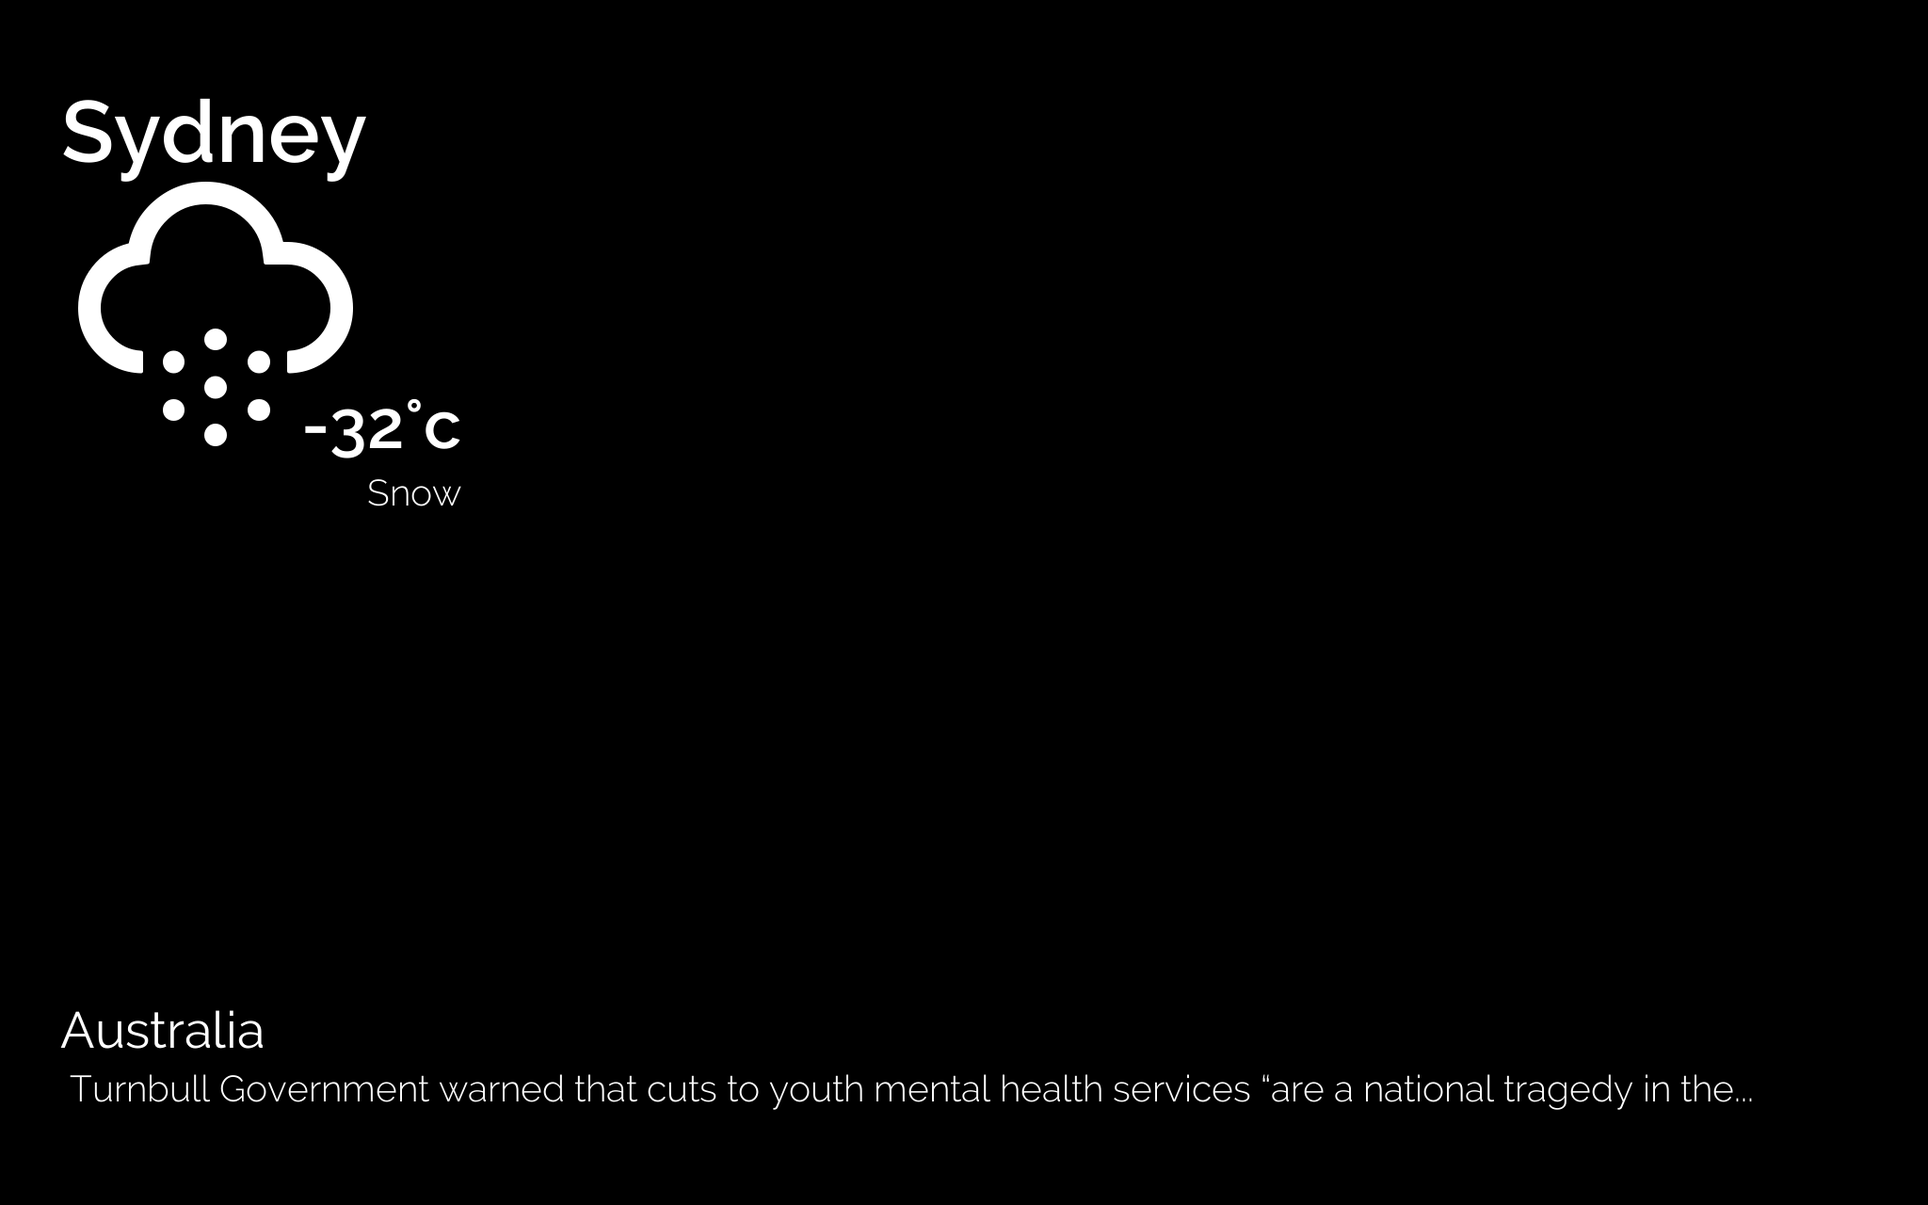
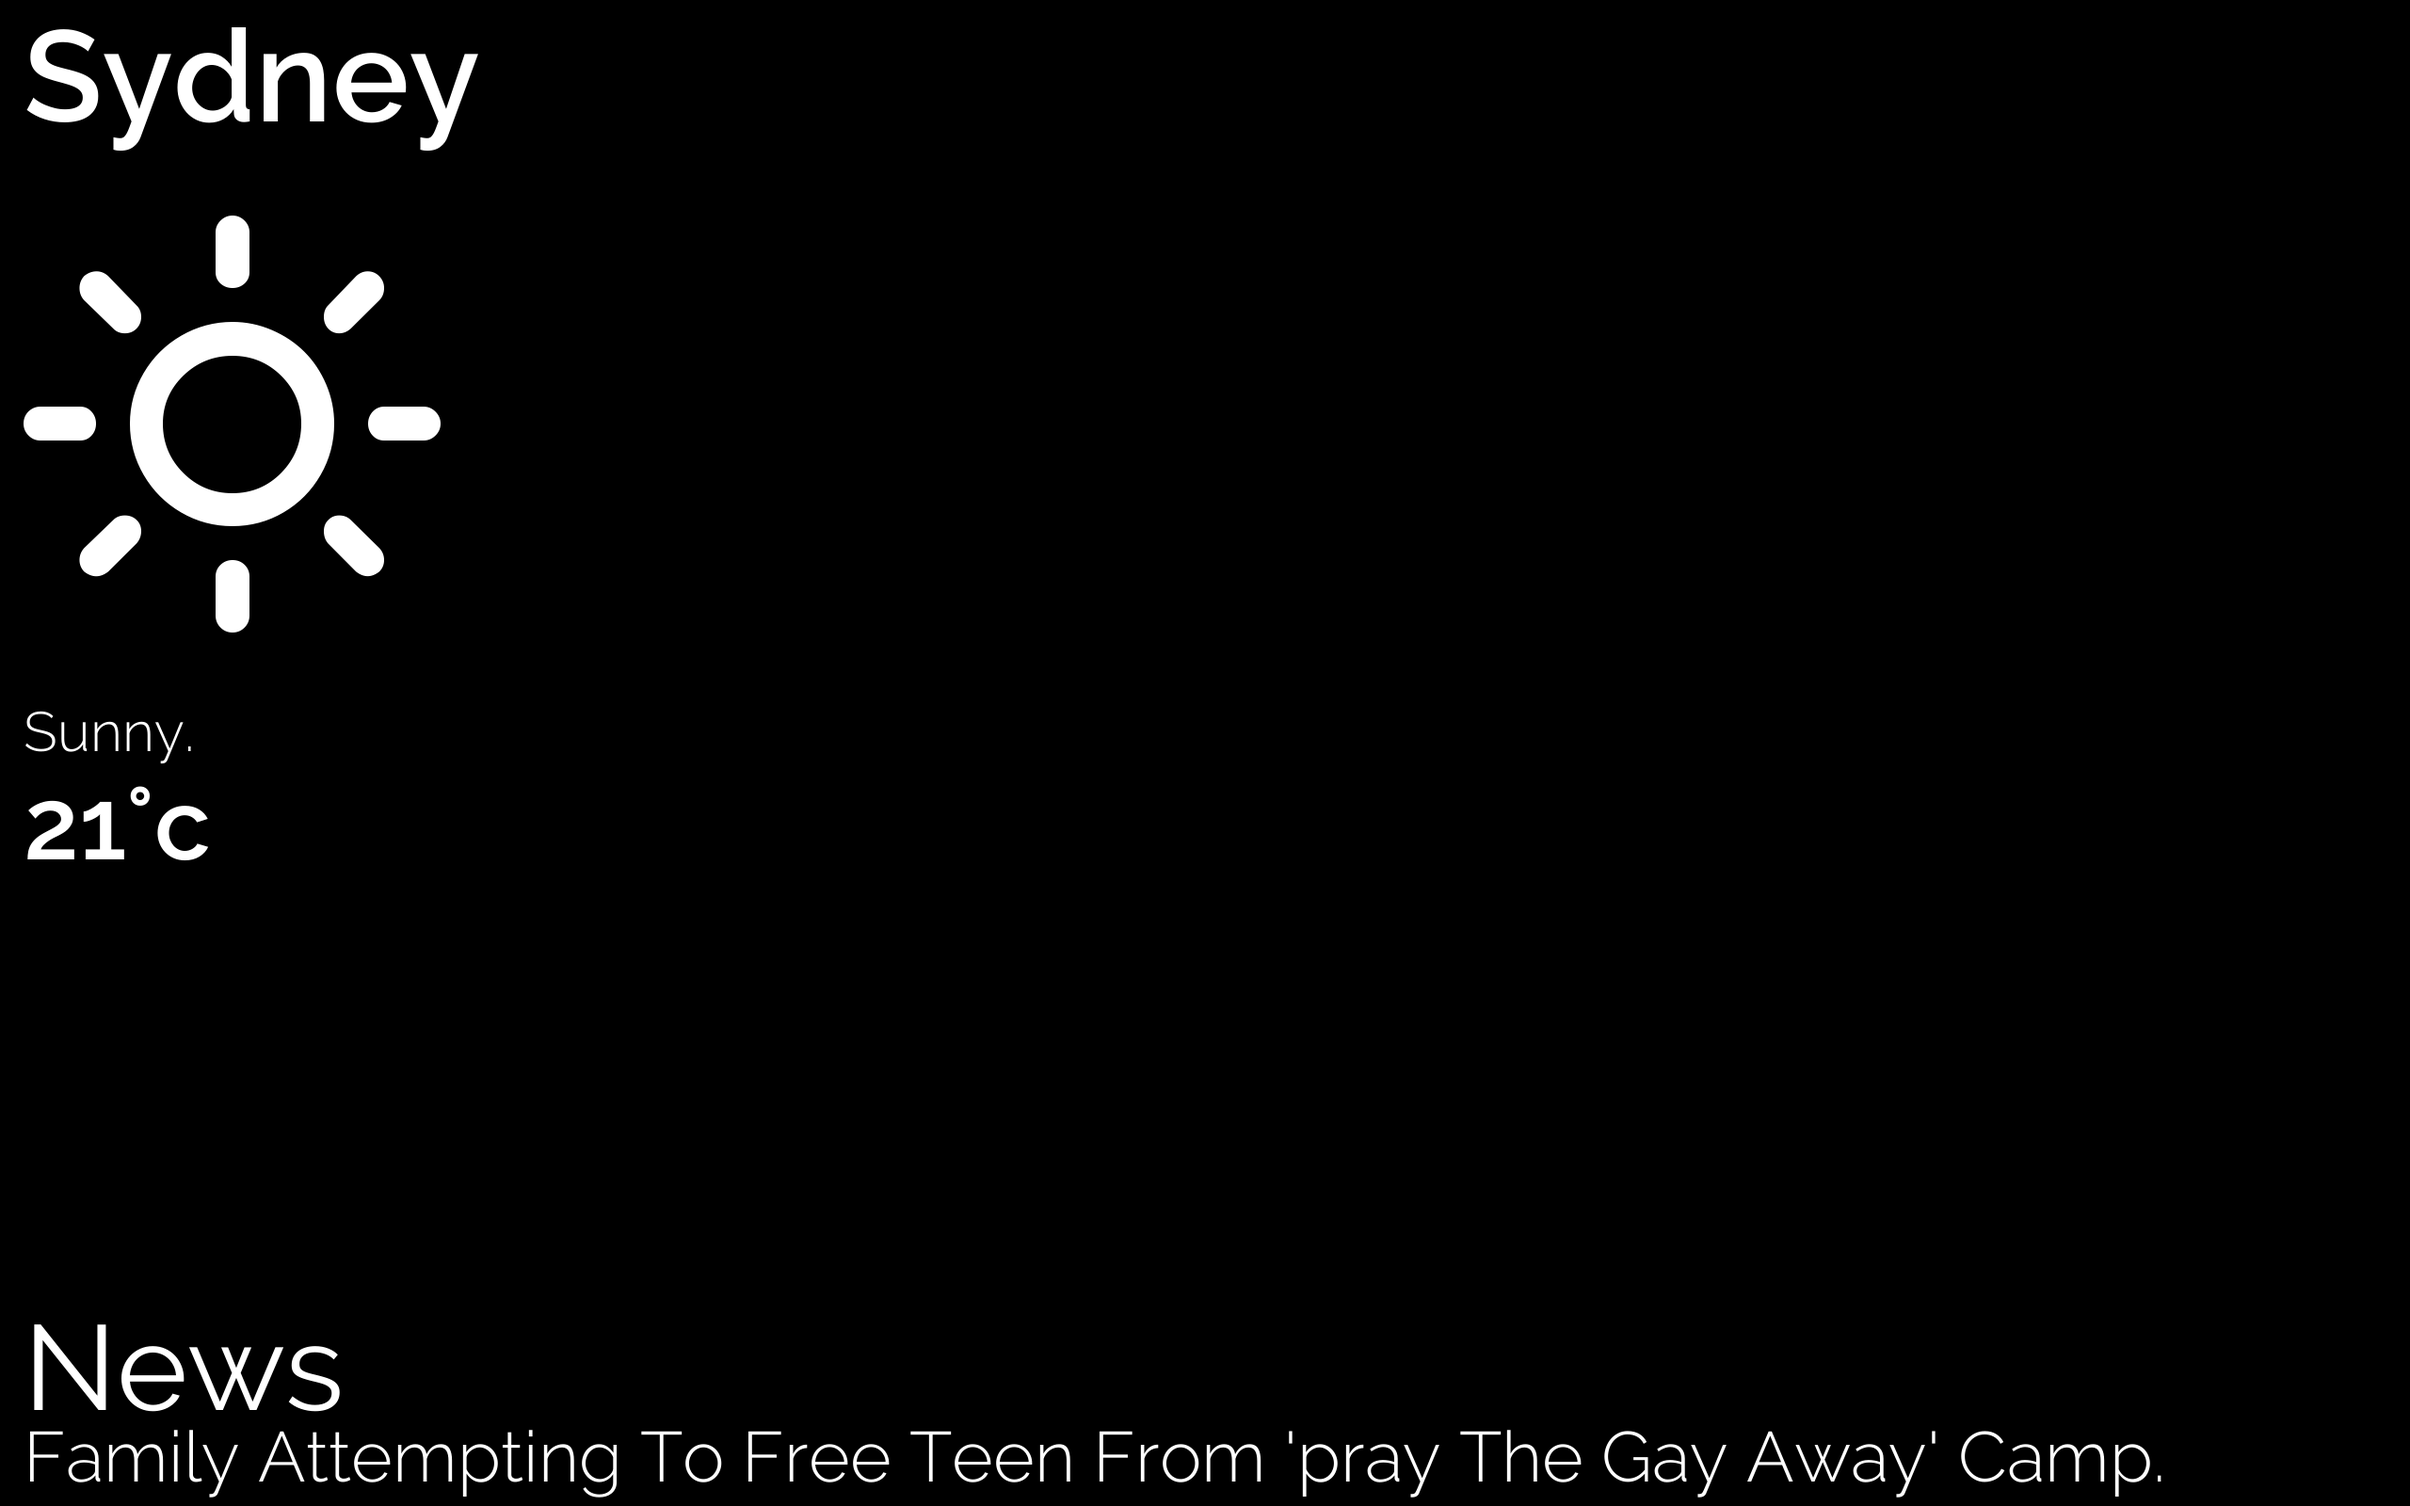
Added inverted mode, improved layout

diff --git a/main.py b/main.py
@@ -141,21 +141,27 @@ def get_weather_display():
     # Sets text for weather info, (text, antialiasing, colour, [background]):
     # city_text, temp_text, condition_text, weather_icon then positions
     weather_text = (
-        FONT[5].render(weather_info[3][0], 1, COLOUR[2]),
         FONT[1].render(weather_info[0], 1, COLOUR[2]),
+        FONT[5].render(weather_info[3][0], 1, COLOUR[2]),
+        FONT[3].render(str(weather_info[2]), 1, COLOUR[2]),
         FONT[2].render("{}\xb0c".format(weather_info[1]), 1, COLOUR[2]),
-        FONT[3].render(str(weather_info[2]), 1, COLOUR[2])
+        )
+    heights = (
+        weather_text[0].get_rect(left=0, top=0)[3],
+        weather_text[1].get_rect(left=0, top=0)[3],
+        weather_text[2].get_rect(left=0, top=0)[3],
+        weather_text[3].get_rect(left=0, top=0)[3]
         )
     weather_text_pos = (
-        weather_text[0].get_rect(left=WIDTH/100, top=weather_info[3][1]),
-        weather_text[1].get_rect(left=1, top=HEIGHT*-0.008),
-        weather_text[2].get_rect(right=WIDTH/4.5, top=HEIGHT/3.50),
-        weather_text[3].get_rect(right=WIDTH/4.5, top=HEIGHT/2.70)
+        weather_text[0].get_rect(left=WIDTH/100, top=0),
+        weather_text[1].get_rect(left=WIDTH/100, top=heights[0]),
+        weather_text[2].get_rect(left=WIDTH/100, top=sum(heights[0:2])),
+        weather_text[3].get_rect(left=WIDTH/100, top=sum(heights[0:3]))
         )
     return (weather_text, weather_text_pos)
 
 
-def get_alt_news_display():
+def get_news_display():
     '''returns news text and rects'''
     subs = settings.subreddits
     news, stories, stories_pos, subreddit, subreddit_pos = [], [], [], [], []
@@ -163,10 +169,10 @@ def get_alt_news_display():
         news = []
         news.extend(get_news(sub))
         for story in news:
-            subreddit.append(FONT[6].render(truncate(sub, title=True), 1, COLOUR[2]))
-            subreddit_pos.append(subreddit[-1].get_rect(left=0, bottom=HEIGHT*0.95))
             stories.append(FONT[7].render(truncate(story), 1, COLOUR[2]))
-            stories_pos.append(stories[-1].get_rect(left=10, bottom=HEIGHT))
+            stories_pos.append(stories[-1].get_rect(left=WIDTH/100, bottom=HEIGHT-HEIGHT/200))
+            subreddit.append(FONT[6].render(truncate(sub, title=True), 1, COLOUR[2]))
+            subreddit_pos.append(subreddit[-1].get_rect(left=WIDTH/100, bottom=HEIGHT-stories_pos[-1][3]*0.8))
             story_right_edge = stories_pos[-1][2]
             # Check if the news item is wider than the screen edge:
             if story_right_edge > WIDTH:
@@ -175,13 +181,13 @@ def get_alt_news_display():
                 while story_right_edge > WIDTH:
                     stories[-1] = FONT[7].render(
                         truncate(story, length=len(story)-cuts), 1, COLOUR[2])
-                    stories_pos[-1] = stories[-1].get_rect(left=0, bottom=HEIGHT)
+                    stories_pos[-1] = stories[-1].get_rect(left=WIDTH/100, bottom=HEIGHT-HEIGHT/200)
                     story_right_edge = (stories_pos[-1][2] + 10)
                     cuts += 1
     return (subreddit, subreddit_pos, stories, stories_pos)
 
 
-def get_news_display():
+def get_alt_news_display():
     '''returns news text and rects'''
     subs = settings.subreddits
     sub_offset, news, stories, stories_pos = -10, [], [], []
@@ -232,7 +238,7 @@ def get_framerate(clock):
     '''Returns framerate font item and rect item'''
     fps = FONT[3].render("{} fps. Press Esc to quit.".format(
             int(ceil(clock.get_fps()))), 1, COLOUR[1])
-    fps_pos = fps.get_rect(right=WIDTH, top=0)
+    fps_pos = fps.get_rect(right=WIDTH-WIDTH/100, top=0)
     return (fps, fps_pos)
 
 
@@ -276,10 +282,10 @@ def main(screen):
             # Fetch the weather and news:
             weather, weather_pos = get_weather_display()
             if settings.bottom_feed:
-                sub, sub_pos, story, story_pos = get_alt_news_display()
+                sub, sub_pos, story, story_pos = get_news_display()
                 story_number, story_disp_time = 0, time.time()
             else:
-                story, story_pos = get_news_display()
+                story, story_pos = get_alt_news_display()
             refresh, last_refresh_time = False, int(time.time())
         # Checks for keyboard events (quit), no return:
         check_events(pygame.event.get())
@@ -313,6 +319,9 @@ if __name__ == '__main__':
     RESOLUTION = WIDTH, HEIGHT = settings.resolution
     SCREEN = pygame.display.set_mode(RESOLUTION, get_display_mode())
     # Initialise the fonts and colours from translations.py:
-    COLOUR = [(0, 0, 0), (128, 128, 128), (255, 255, 255)]
+    if settings.invert_colours:
+        COLOUR = [(255, 255, 255), (0, 0, 0), (0, 0, 0)]
+    else:
+        COLOUR = [(0, 0, 0), (128, 128, 128), (255, 255, 255)]
     FONT = [pygame.font.Font(ttf, size) for ttf, size in settings.fonts]
     main(SCREEN)

diff --git a/settings.py b/settings.py
@@ -1,15 +1,17 @@
 '''UI Settings'''
-
 version = "0.2"
 
 # 16:9 (or close to) resolutions only at the moment.
-resolution = (1920, 1080)
+resolution = (2560, 1600)
 
 # Framerate limit, 0 for unlimited:
 fps_limit = 5
 
+# True = black on white, False = white on black
+invert_colours = False
+
 # Display framerate in corner:
-display_framerate = True
+display_framerate = False
 
 # Default display mode:
 def_disp_mode = "--fullscreen"
@@ -41,7 +43,6 @@ fonts = [
         ]
 
 '''Weather Settings'''
-
 # URL for bom weather data. Do not touch:
 weather_url = "ftp://ftp2.bom.gov.au/anon/gen/fwo/IDA00100.dat"
 
@@ -54,12 +55,11 @@ weather_update_delay = 3600
 saved_weather_data_path = "resources/weather_data"
 
 '''News Settings'''
-
 # Items to display for each subreddit:
 item_count = 10
 
 # Subreddits to fetch data from:
-subreddits = ["Australia", "Worldnews"]
+subreddits = ["News"]
 
 # Changed to a fade-in/out bottom feed.
 # To get original list behaviour set to false:
